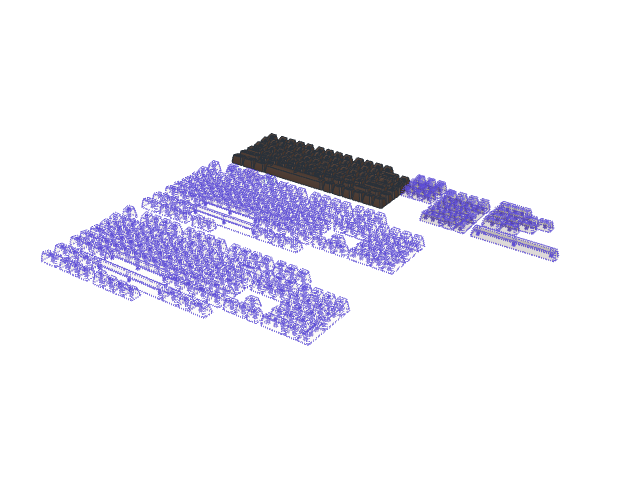
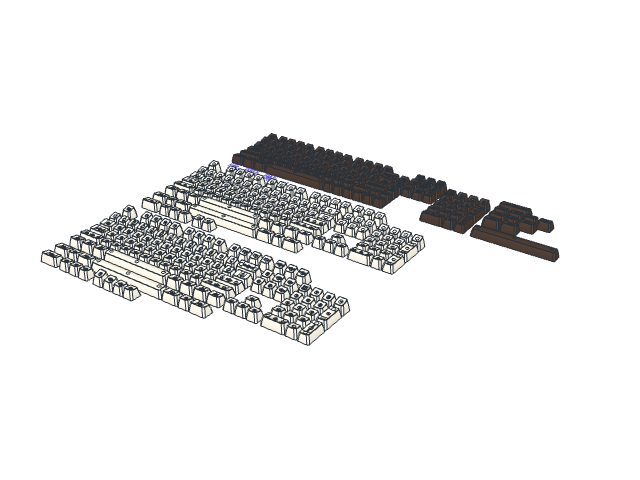
Edit the project guide kits (AI)

Changed region(s): [[0.0625, 0.3125, 0.6875, 0.7188], [0.625, 0.3438, 0.875, 0.5625]]

diff --git a/guides/kits.md b/guides/kits.md
@@ -1,7 +1,7 @@
 ---
 title: Keycap kits: what to print for each board
 summary: Which keycap groups and parts make up each legend option (C64, plain, blank) and each ANSI board size (60%, 65%, 75%, TKL, full size, tsangan).
-keywords: kit, layout, 60%, 65%, 75%, TKL, full size, tsangan, print files, which keys
+keywords: kit, layout, 60%, 65%, 75%, tkl, full size, tsangan, print files, which keys
 always: true
 ---
 
@@ -53,3 +53,13 @@ the 2u cap turned upright, for vertical stabilizers.
   groups you don't need in the slicer, or export single parts from the app.
 - Plain legends currently use the C64 Keyboard font (caps only): the geometry server only loaded that
   font. Switch the plain set to Roboto Bold once it loads.
+
+## Exporting one set at a time
+
+Every part belongs to exactly one set (each set has its own spacebars: brown `k_space_7u` in the C64 add-on, light `p_space_6_25u` / `p_space_7u` in the plain set, `blank_space_*` in the blanks). To export one set as its own STEP and 3MF: in one temporary transaction, mark every part of the other sets `reference: "helper"` (and set their inks' `printWith: null`, since an inlay can't print with a construction body), export the whole design, then undo. Helper parts are left out of STEP and 3MF.
+
+2026-10-25 exports (design before the temporary changes: sha256:72fcac111ec1912e):
+- C64 75%: `exports/keycaps-7ce64e81.step` / `.3mf`
+- C64 add-on: `exports/keycaps-85627423.step` / `.3mf`
+- Blank: `exports/keycaps-e8ff5f65.step` / `.3mf`
+- Plain: `exports/keycaps-bfd3f6cf.step` / `.3mf`
